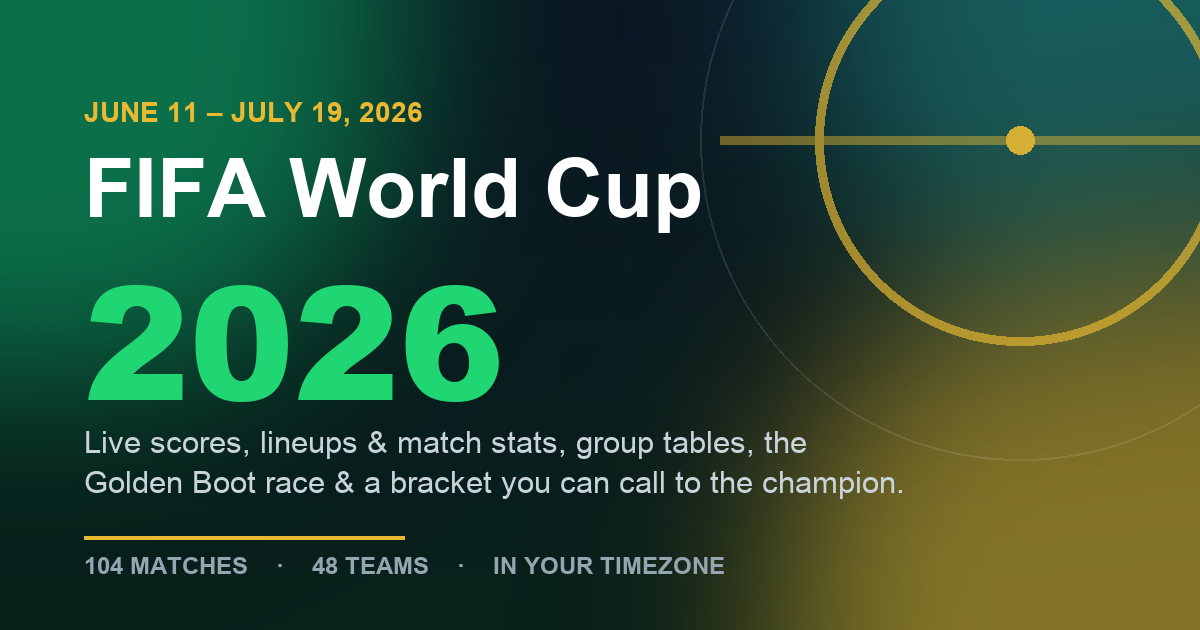
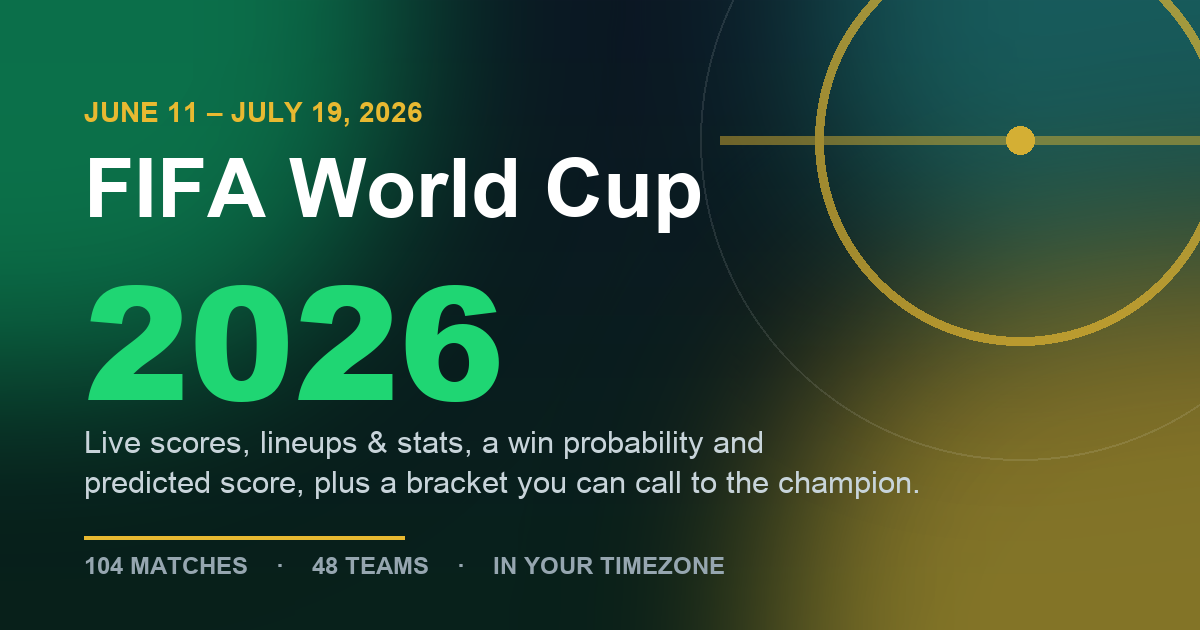
Refresh README, social share card + meta to today's feature set
The README, the OG/Twitter meta and the share image all predated the prediction
model, the FIFA EFI deep analysis and the News tab, and still referenced the
removed match-flow sparkline and the old Stats sub-tabs.

Share card (scripts/make-og.py + assets/og.png): new tagline leads with the model
("a win probability and predicted score, plus a bracket you can call to the
champion"). og:image bumped ?v=143 -> 144 so social platforms re-fetch.

Social meta (index.html): og/twitter title -> "live, predicted, on your clock";
og/twitter + SEO descriptions and image alt now name the win probability +
predicted scoreline. No em-dashes.

README: Live match detail now describes the win probability + predicted scoreline
(Dixon-Coles over an xG-aware Elo, attack/defence, host, stakes) and FIFA's deep
analysis, and drops the deleted match-flow sparkline; Stats sub-tabs corrected to
Overview/Players/Teams/Rankings; added a News bullet; intro nods to predictions.

Changed region(s): [[0.0617, 0.754, 0.7708, 0.7841], [0.3083, 0.6937, 0.6783, 0.7238]]

diff --git a/index.html b/index.html
@@ -4,20 +4,20 @@
 <meta charset="UTF-8">
 <meta name="viewport" content="width=device-width, initial-scale=1.0, viewport-fit=cover">
 <title>FIFA World Cup 2026</title>
-<meta name="description" content="Your FIFA World Cup 2026 companion: live scores with goal timelines, lineups, formation pitches & match stats, group tables, the Golden Boot race, and a full bracket predictor you can call all the way to the champion. All 104 matches in your timezone, free.">
+<meta name="description" content="Your FIFA World Cup 2026 companion: live scores, lineups, formation pitches & match stats, a win probability and predicted scoreline for every match, group tables, the Golden Boot race, and a full bracket predictor you can call to the champion. All 104 matches in your timezone, free.">
 <meta property="og:type" content="website">
 <meta property="og:site_name" content="FIFA World Cup 2026 Companion">
 <meta property="og:url" content="https://lavyagarg240294.github.io/wc26/">
-<meta property="og:title" content="FIFA World Cup 2026: every match on your clock">
-<meta property="og:description" content="Live scores, lineups & match stats, group tables, the Golden Boot race, and a bracket predictor you can call all the way to the champion. All 104 matches in your timezone, free, no sign-up.">
-<meta property="og:image" content="https://lavyagarg240294.github.io/wc26/assets/og.png?v=143">
+<meta property="og:title" content="FIFA World Cup 2026: live, predicted, on your clock">
+<meta property="og:description" content="Live scores, lineups & stats, a win probability and predicted scoreline for every match, group tables, the Golden Boot race, and a bracket you can call to the champion. All 104 matches in your timezone, free, no sign-up.">
+<meta property="og:image" content="https://lavyagarg240294.github.io/wc26/assets/og.png?v=144">
 <meta property="og:image:width" content="1200">
 <meta property="og:image:height" content="630">
-<meta property="og:image:alt" content="FIFA World Cup 2026: live scores, lineups, stats and a full bracket predictor, in your timezone">
+<meta property="og:image:alt" content="FIFA World Cup 2026: live scores, lineups, stats, a win probability and predicted score for every match, and a full bracket predictor, in your timezone">
 <meta name="twitter:card" content="summary_large_image">
-<meta name="twitter:title" content="FIFA World Cup 2026: every match on your clock">
-<meta name="twitter:description" content="Live scores, lineups & match stats, group tables, the Golden Boot race, and a bracket predictor you can call all the way to the champion. All 104 matches in your timezone, free, no sign-up.">
-<meta name="twitter:image" content="https://lavyagarg240294.github.io/wc26/assets/og.png?v=143">
+<meta name="twitter:title" content="FIFA World Cup 2026: live, predicted, on your clock">
+<meta name="twitter:description" content="Live scores, lineups & stats, a win probability and predicted scoreline for every match, group tables, the Golden Boot race, and a bracket you can call to the champion. All 104 matches in your timezone, free, no sign-up.">
+<meta name="twitter:image" content="https://lavyagarg240294.github.io/wc26/assets/og.png?v=144">
 <meta name="theme-color" content="#FAFBF9">
 <script>try{var t=localStorage.getItem('wc26.theme');if(t==='dark'||(!t&&matchMedia('(prefers-color-scheme:dark)').matches)){document.documentElement.dataset.theme='dark';var m=document.querySelector('meta[name=theme-color]');if(m)m.content='#0E1822';}}catch(e){}try{document.documentElement.classList.add('booting');setTimeout(function(){document.documentElement.classList.remove('booting');},1600);}catch(e){}</script>
 <!-- Privacy-friendly, cookieless analytics (GoatCounter) — OFF by default (no third-party request, no tracking).
@@ -33,7 +33,7 @@
 <meta name="apple-mobile-web-app-title" content="World Cup 26">
 <meta name="application-name" content="World Cup 26">
 <link rel="stylesheet" href="assets/fonts.css?v=112">
-<link rel="stylesheet" href="styles.css?v=222">
+<link rel="stylesheet" href="styles.css?v=223">
 <link rel="icon" href="assets/mark.svg">
 <link rel="icon" type="image/png" href="assets/icon-32.png" sizes="32x32">
 </head>
@@ -308,6 +308,6 @@
 <canvas id="confetti" aria-hidden="true"></canvas>
 <audio id="bgm" preload="none"></audio>
 
-<script src="app.js?v=222"></script>
+<script src="app.js?v=223"></script>
 </body>
 </html>

diff --git a/sw.js b/sw.js
@@ -7,7 +7,7 @@
  * Cache keys strip ?t= / ?v= so the every-60s polled files and versioned assets don't pile up.
  * Bump CACHE per deploy; activate() purges old caches and claims clients.
  */
-const CACHE = "wc26-222";
+const CACHE = "wc26-223";
 const keyFor = req => new Request(new URL(req.url).origin + new URL(req.url).pathname); // drop the query
 
 self.addEventListener("install", () => self.skipWaiting());

diff --git a/app.js b/app.js
@@ -30,7 +30,7 @@ function toggleSave(id) {
 const AUTO_TZ = Intl.DateTimeFormat().resolvedOptions().timeZone || "UTC";
 const tz = () => (S.tz === "auto" ? AUTO_TZ : S.tz);
 const GROUPS = "ABCDEFGHIJKL".split("");
-const BUILD = "222";  // shown in footer; bump with the ?v= asset version
+const BUILD = "223";  // shown in footer; bump with the ?v= asset version
 
 const ZONES = [
   ["auto", "Auto (device)"],

diff --git a/scripts/make-og.py b/scripts/make-og.py
@@ -42,8 +42,8 @@ d.text((x, 96), "JUNE 11 – JULY 19, 2026", font=f(FB, 28), fill=(232, 185, 49)
 d.text((x, 142), "FIFA World Cup", font=f(FB, 82), fill=(255, 255, 255))
 d.text((x, 226), "2026", font=f(FBL, 158), fill=(31, 214, 115))
 tag = f(FR, 31)
-d.text((x, 424), "Live scores, lineups & match stats, group tables, the", font=tag, fill=(200, 212, 218))
-d.text((x, 464), "Golden Boot race & a bracket you can call to the champion.", font=tag, fill=(200, 212, 218))
+d.text((x, 424), "Live scores, lineups & stats, a win probability and", font=tag, fill=(200, 212, 218))
+d.text((x, 464), "predicted score, plus a bracket you can call to the champion.", font=tag, fill=(200, 212, 218))
 d.rectangle([x, 536, x + 320, 539], fill=(232, 185, 49))
 d.text((x, 552), "104 MATCHES    ·    48 TEAMS    ·    IN YOUR TIMEZONE", font=f(FB, 24), fill=(150, 166, 176))
 

diff --git a/README.md b/README.md
@@ -1,14 +1,15 @@
 # WC·26 — World Cup 2026 Companion
 
-A fast, no-build fan site for the **FIFA World Cup 2026** — every match in your timezone, a favorite team that re-themes the whole UI, and a tournament that fills itself in as games are played.
+A fast, no-build fan site for the **FIFA World Cup 2026** — every match in your timezone, a **win probability + predicted scoreline** for every game, a favorite team that re-themes the whole UI, and a tournament that fills itself in as games are played.
 
 **What's inside**
 - **Matches** — every fixture in your timezone with a live hero + countdown, a **Match of the day** marquee pick, and a **Day in review** digest (recap: results · goals · top scorer · biggest result; preview: a "one to watch" pick + the rest of the day's games), navigable by date.
-- **Live match detail** — score + minute that **refresh live in place** (open a running game and it stays current — score, minute, timeline, stats — without reopening), a goal/card/sub **timeline** (tap any player for a mini profile — photo, club, caps, a **per-match box score** & what they did), **lineups on a formation pitch** (official player photos), a match-flow sparkline, a rich **match-stats** panel (possession, passing, tackles, saves, crosses… ~16 metrics) with **standout performers**, and match facts (attendance, referee).
+- **Live match detail** — score + minute that **refresh live in place** (open a running game and it stays current — score, minute, timeline, stats — without reopening), a **win probability + predicted scoreline** for the match (a Dixon-Coles model over an xG-aware Elo that updates after every result, refined by an attack-vs-defence read, host edge and late-group qualification stakes — with the reasoning shown), a goal/card/sub **timeline** (tap any player for a mini profile — photo, club, caps, a **per-match box score** & what they did), **lineups on a formation pitch** (official player photos), a rich **match-stats** panel (possession, passing, tackles, saves, crosses… ~16 metrics) with **standout performers**, FIFA's post-match **deep analysis** (official xG, distance covered, heatmaps), and match facts (attendance, referee).
 - **Teams** — tap any team anywhere for a detail sheet: overview, recent form, every fixture, the group standing + qualification outlook, a one-tap follow (re-themes the UI to their kit — contrast-guarded so it always stays readable), **squad rotation & minutes**, the full squad, **"road to the final"** (a projected knockout route from live standings), and a one-tap **calendar subscribe**.
 - **Groups** — 12 live tables + a "what each team needs to qualify" outlook, a **third-place race** tracker (the best-8-of-12 cut line the new format needs), and a collapsible **"projected Round of 32 if the groups ended today."**
 - **Predict** — order every group, pick the best third-placed teams, then tap winners through a full knockout **bracket** to crown your champion (seeded from live standings so it's ready to play with right away), see **how your call is tracking vs reality**, and **share your bracket as a ~30-character link**.
-- **Stats** (Players · Teams · Discipline · Records · Tournament · Rankings) — the **Golden Boot** & **assists** races, **goalkeepers/clean sheets**, a stack of **team leaderboards** (pass accuracy, defensive actions, crosses, saves…), per-team **playing-style fingerprints**, a **suspension watch** and **fair-play** table, **records** (biggest win, fastest/latest goal…), a **player head-to-head** compare, a **confederation** breakdown, and the **complete FIFA world ranking** (all 211 teams, filterable to the 48 finalists, with confederation tags).
+- **Stats** (Overview · Players · Teams · Rankings) — a tournament **overview**, the **Golden Boot** & **assists** races, **goalkeepers/clean sheets**, a stack of **team leaderboards** (pass accuracy, defensive actions, crosses, saves…), per-team **playing-style fingerprints** (with a per-metric explainer), a **suspension watch** and **fair-play** table, **records** (biggest win, fastest/latest goal…), a **player head-to-head** compare, a **confederation** breakdown, and the **complete FIFA world ranking** (all 211 teams, filterable to the 48 finalists, by confederation).
+- **News** — the latest World Cup **headlines** from football desks worldwide (Guardian, BBC, ESPN, France 24, Al Jazeera, DW), newest first, with a live filter; each links out to its source.
 - Plus: **global search** (⌘K — teams, players, matches), **installable to your home screen** (PWA), **dark mode**, **match alerts** (goal/kickoff notifications) and **data-saver** mode, a **Settings** sheet, **calendar** export + **webcal subscribe**, per-match **share cards** that unfurl on social, an accessibility pass (keyboard focus, reduced-motion, screen-reader live goals), and a fully mobile-first, re-themable UI.
 
 **Stack:** plain `index.html` + `styles.css` + one vanilla-JS `app.js` on GitHub Pages, fed by GitHub Actions that commit JSON into the repo. **No API keys are required to run it** — live scores, events, lineups, stats and player photos all come from free, keyless sources. Total cost: **$0**.
